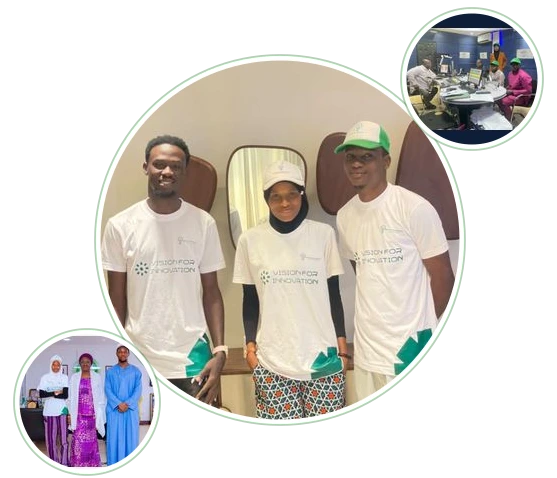
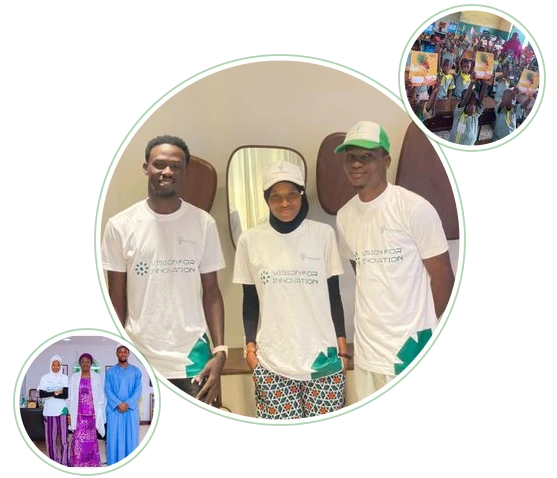
feat: add AboutPageClient component and community collage asset

Changed region(s): [[0.702, 0.0, 1.0, 0.3222]]

diff --git a/src/components/site/AboutPageClient.tsx b/src/components/site/AboutPageClient.tsx
@@ -104,17 +104,24 @@ function OurStory() {
           <SectionLabel>ABOUT US</SectionLabel>
           <h2 id="about-story-heading">Our Story</h2>
           <p>
-            A Nigeria-based Non-Governmental Organization that seeks to stand as a guiding light of
-            hope in a world filled with challenges, focusing our efforts on four pillars that define
-            our mission: clean water and sanitation, climate action, good health and well-being and
-            the pursuit of zero poverty.
+            Introducing and welcoming you all to Path to Blessings Charity Foundation.
           </p>
-          <p>Our motto is “After Every Hardship comes ease.”</p>
+          <p>
+            We are a non-profit organization focused on creating lasting impact through education,
+            innovation, health support, and community development.
+          </p>
+          <p>
+            At Path to Blessings, we believe real change happens when compassion meets technology and
+            purpose. Our mission is to support young minds, uplift underserved communities, and
+            promote sustainable growth through meaningful initiatives.
+          </p>
+          <p>
+            Guided by integrity, accountability, and service, we work with schools, volunteers, and
+            partners to improve learning outcomes and overall well-being.
+          </p>
           <p className="about-story-second">
-            Through dedicated initiatives, we are working to ensure that clean water is not a
-            privilege but a fundamental right, that climate action is not a choice but a
-            responsibility, that healthcare gaps are bridged and that the shadows of poverty are
-            replaced with the light of opportunity.
+            This is more than an organization, it’s a journey of hope, empowerment, and
+            transformation. Welcome to Path to Blessings.
           </p>
         </div>
       </div>
@@ -130,8 +137,8 @@ function MissionVision() {
           <SectionLabel>GUIDING MISSION</SectionLabel>
           <h2>Our Mission</h2>
           <p>
-            To empower public school students through innovative, tech-driven and charitable
-            educational programs.
+            To empower public school students through innovative, tech-driven, and charitable
+            educational programs
           </p>
         </div>
         <Image
@@ -146,8 +153,8 @@ function MissionVision() {
           <SectionLabel>GUIDING VISION</SectionLabel>
           <h2>Our Vision</h2>
           <p>
-            To merge the power of technology with the heart of charity for sustainable educational
-            impact
+            To merge the power of technology with the heart of charity to create sustainable
+            education impacts
           </p>
         </div>
       </div>

diff --git a/src/data/projects.ts b/src/data/projects.ts
@@ -99,16 +99,6 @@ export const projects: Project[] = [
       '35 vulnerable individuals - Feeding outreach executed on behalf of a UK donor.',
     image: '/assets/gallery/special-people/group-feeding.jpg',
   },
-  {
-    id: 'mapama-national-convention-nov-2025',
-    title: 'Supported MAPAMA National Convention 2025',
-    date: 'Nov 15 & 16, 2025',
-    month: 'November',
-    year: 2025,
-    description:
-      'Our volunteers contributed to graphics design, handling media support, including capturing event highlights, live streaming, interviews, and documentation to enhance the visibility of the convention.',
-    image: '/assets/gallery/launch/launch-duo.jpg',
-  },
 ]
 
 export interface DateGroup {
